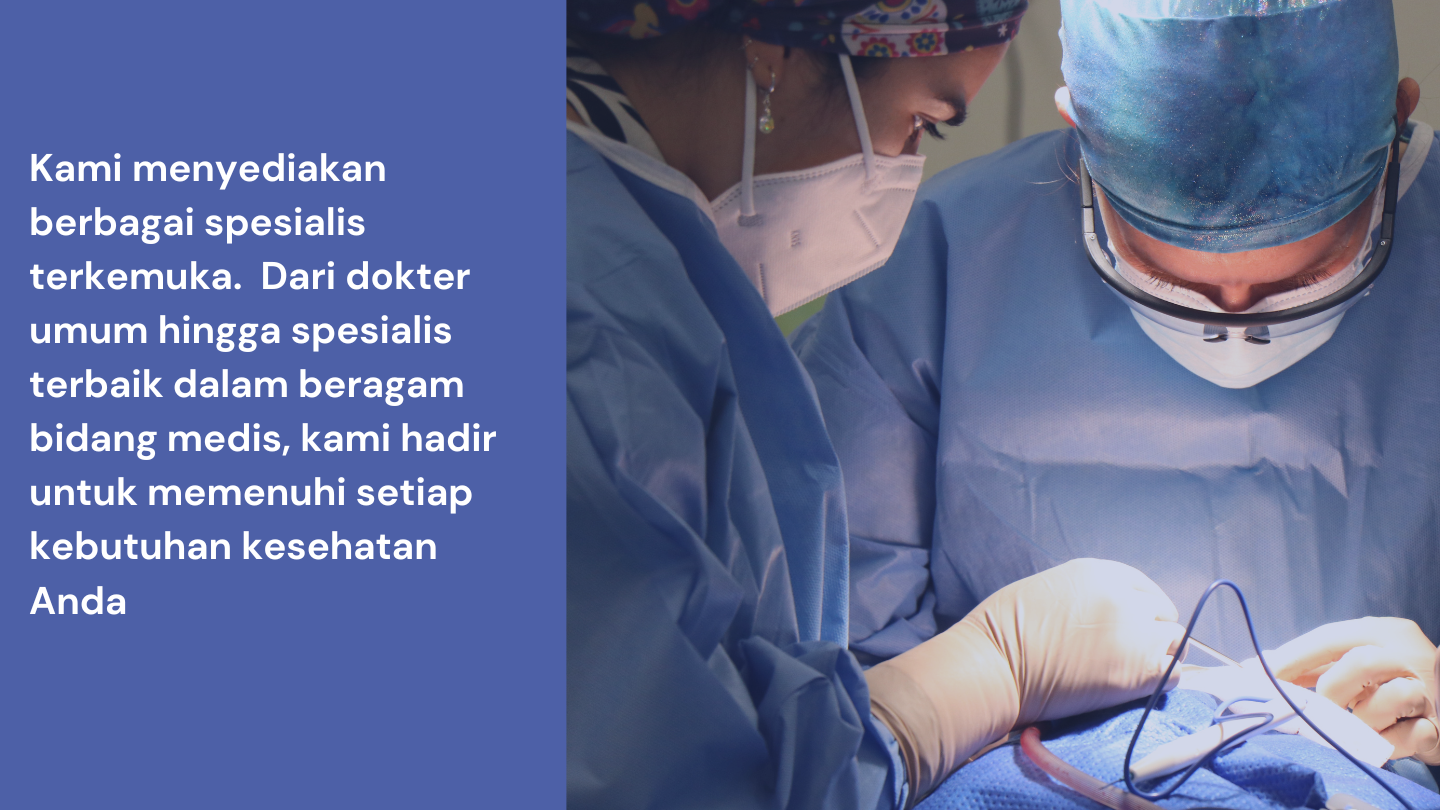
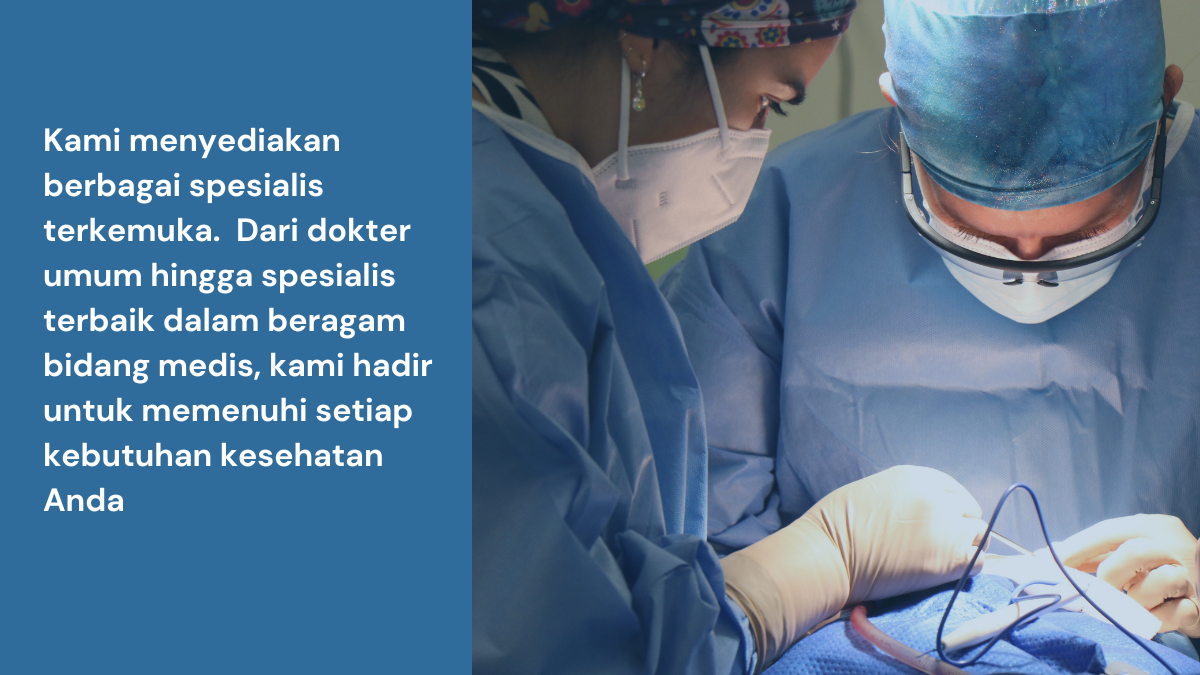
hapus akun

diff --git a/app/lib/pages/dashboard/dashboard.dart b/app/lib/pages/dashboard/dashboard.dart
@@ -211,19 +211,28 @@ class _Dashboard1State extends State<Dashboard1> {
                 Container(
                   decoration: BoxDecoration(
                     borderRadius: BorderRadius.circular(8.0),
-                    color: Colors.blue,
+                    image: const DecorationImage(
+											image: AssetImage('assets/images/carousel/1.png'),
+											fit: BoxFit.cover,
+										),
                   ),
                 ),
                 Container(
                   decoration: BoxDecoration(
                     borderRadius: BorderRadius.circular(8.0),
-                    color: Colors.blue,
+                    image: const DecorationImage(
+											image: AssetImage('assets/images/carousel/2.png'),
+											fit: BoxFit.cover,
+										),
                   ),
                 ),
                 Container(
                   decoration: BoxDecoration(
                     borderRadius: BorderRadius.circular(8.0),
-                    color: Colors.blue,
+                    image: const DecorationImage(
+											image: AssetImage('assets/images/carousel/3.png'),
+											fit: BoxFit.cover,
+										),
                   ),
                 ),
               ],

diff --git a/app/lib/pages/profile/profile.dart b/app/lib/pages/profile/profile.dart
@@ -146,17 +146,17 @@ class ProfilScreen extends StatelessWidget {
               );
             },
           ),
-          ListTile(
-            leading: const Icon(Icons.delete, color: Colors.blue, size: 40),
-            title: const Text('Hapus Akun'),
-            trailing: const Icon(Icons.chevron_right),
-            onTap: () {
-             Navigator.push(
-                context,
-                MaterialPageRoute(builder: (context) => HapusAkunScreen()),
-              );
-            },
-          ),
+          // ListTile(
+          //   leading: const Icon(Icons.delete, color: Colors.blue, size: 40),
+          //   title: const Text('Hapus Akun'),
+          //   trailing: const Icon(Icons.chevron_right),
+          //   onTap: () {
+          //    Navigator.push(
+          //       context,
+          //       MaterialPageRoute(builder: (context) => HapusAkunScreen()),
+          //     );
+          //   },
+          // ),
         ],
       ),
       // bottomNavigationBar: BottomNavigationBar(

diff --git a/app/lib/main.dart b/app/lib/main.dart
@@ -1,6 +1,7 @@
 import 'package:flutter/material.dart';
 import 'package:flutter/widgets.dart';
 import 'package:flutter_bloc/flutter_bloc.dart';
+import 'package:google_fonts/google_fonts.dart';
 import 'package:tubes/cubits/doctors_cubit.dart';
 import 'package:tubes/pages/authentication/buat_akun.dart';
 import 'package:tubes/pages/authentication/data_diri.dart';
@@ -83,10 +84,14 @@ class MyApp extends StatelessWidget {
               return 'Cari & Buat Reservasi';
           }
         },
-        theme: ThemeData(
-          colorScheme: ColorScheme.fromSeed(seedColor: Colors.blue),
-          useMaterial3: true,
+				theme: ThemeData(
+        // Atur font default menggunakan GoogleFonts
+        textTheme: GoogleFonts.poppinsTextTheme(
+          Theme.of(context).textTheme,
         ),
+				colorScheme: ColorScheme.fromSeed(seedColor: Colors.blue),
+          useMaterial3: true,
+      ),
         initialRoute: '/onboard2',
         routes: {
           '/': (context) => const Login(title: 'Login'),
